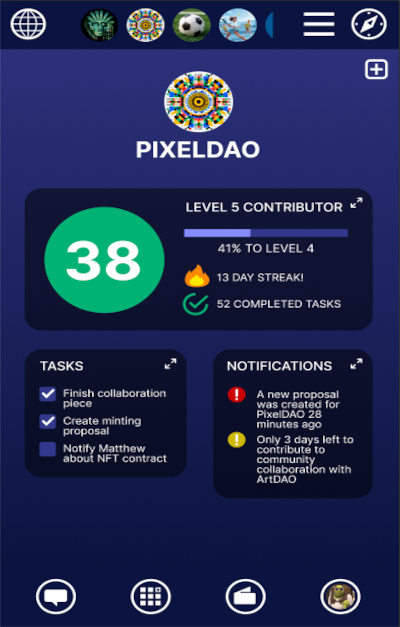
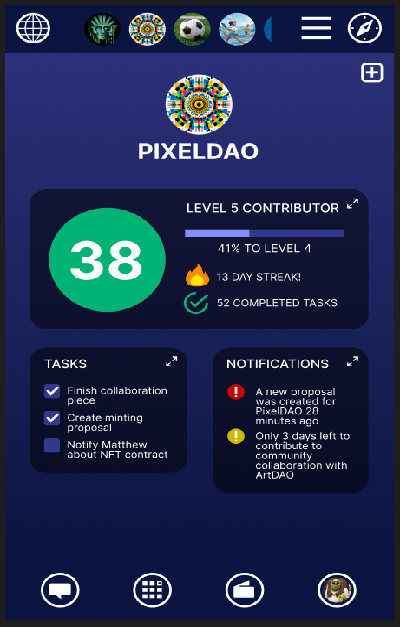
fixed gap issue with home page

diff --git a/index.html b/index.html
@@ -211,21 +211,10 @@
             margin-bottom: 15px;
         }
 
-        .project-image .project-frame {
+        .project-image .project-content {
             width: 100%;
             height: auto;
-            position: relative;
-            z-index: 2;
-        }
-
-        .project-image .project-content {
-            position: absolute;
-            top: 50%;
-            left: 50%;
-            transform: translate(-50%, -50%);
-            max-width: 80%;
-            max-height: 80%;
-            object-fit: cover;
+            display: block;
             z-index: 1;
             opacity: 0;
             transition: opacity 0.3s ease-in;
@@ -235,15 +224,25 @@
             opacity: 1;
         }
 
+        .project-image .project-frame {
+            position: absolute;
+            top: 0;
+            left: 0;
+            width: 100%;
+            height: 100%;
+            object-fit: fill;
+            z-index: 2;
+            pointer-events: none;
+        }
+
         /* Loading placeholder for images */
         .project-image::before {
             content: '';
             position: absolute;
-            top: 50%;
-            left: 50%;
-            transform: translate(-50%, -50%);
-            width: 80%;
-            height: 80%;
+            top: 0;
+            left: 0;
+            width: 100%;
+            height: 100%;
             background: linear-gradient(90deg, #1a1a1a 25%, #2a2a2a 50%, #1a1a1a 75%);
             background-size: 200% 100%;
             animation: shimmer 1.5s infinite;
